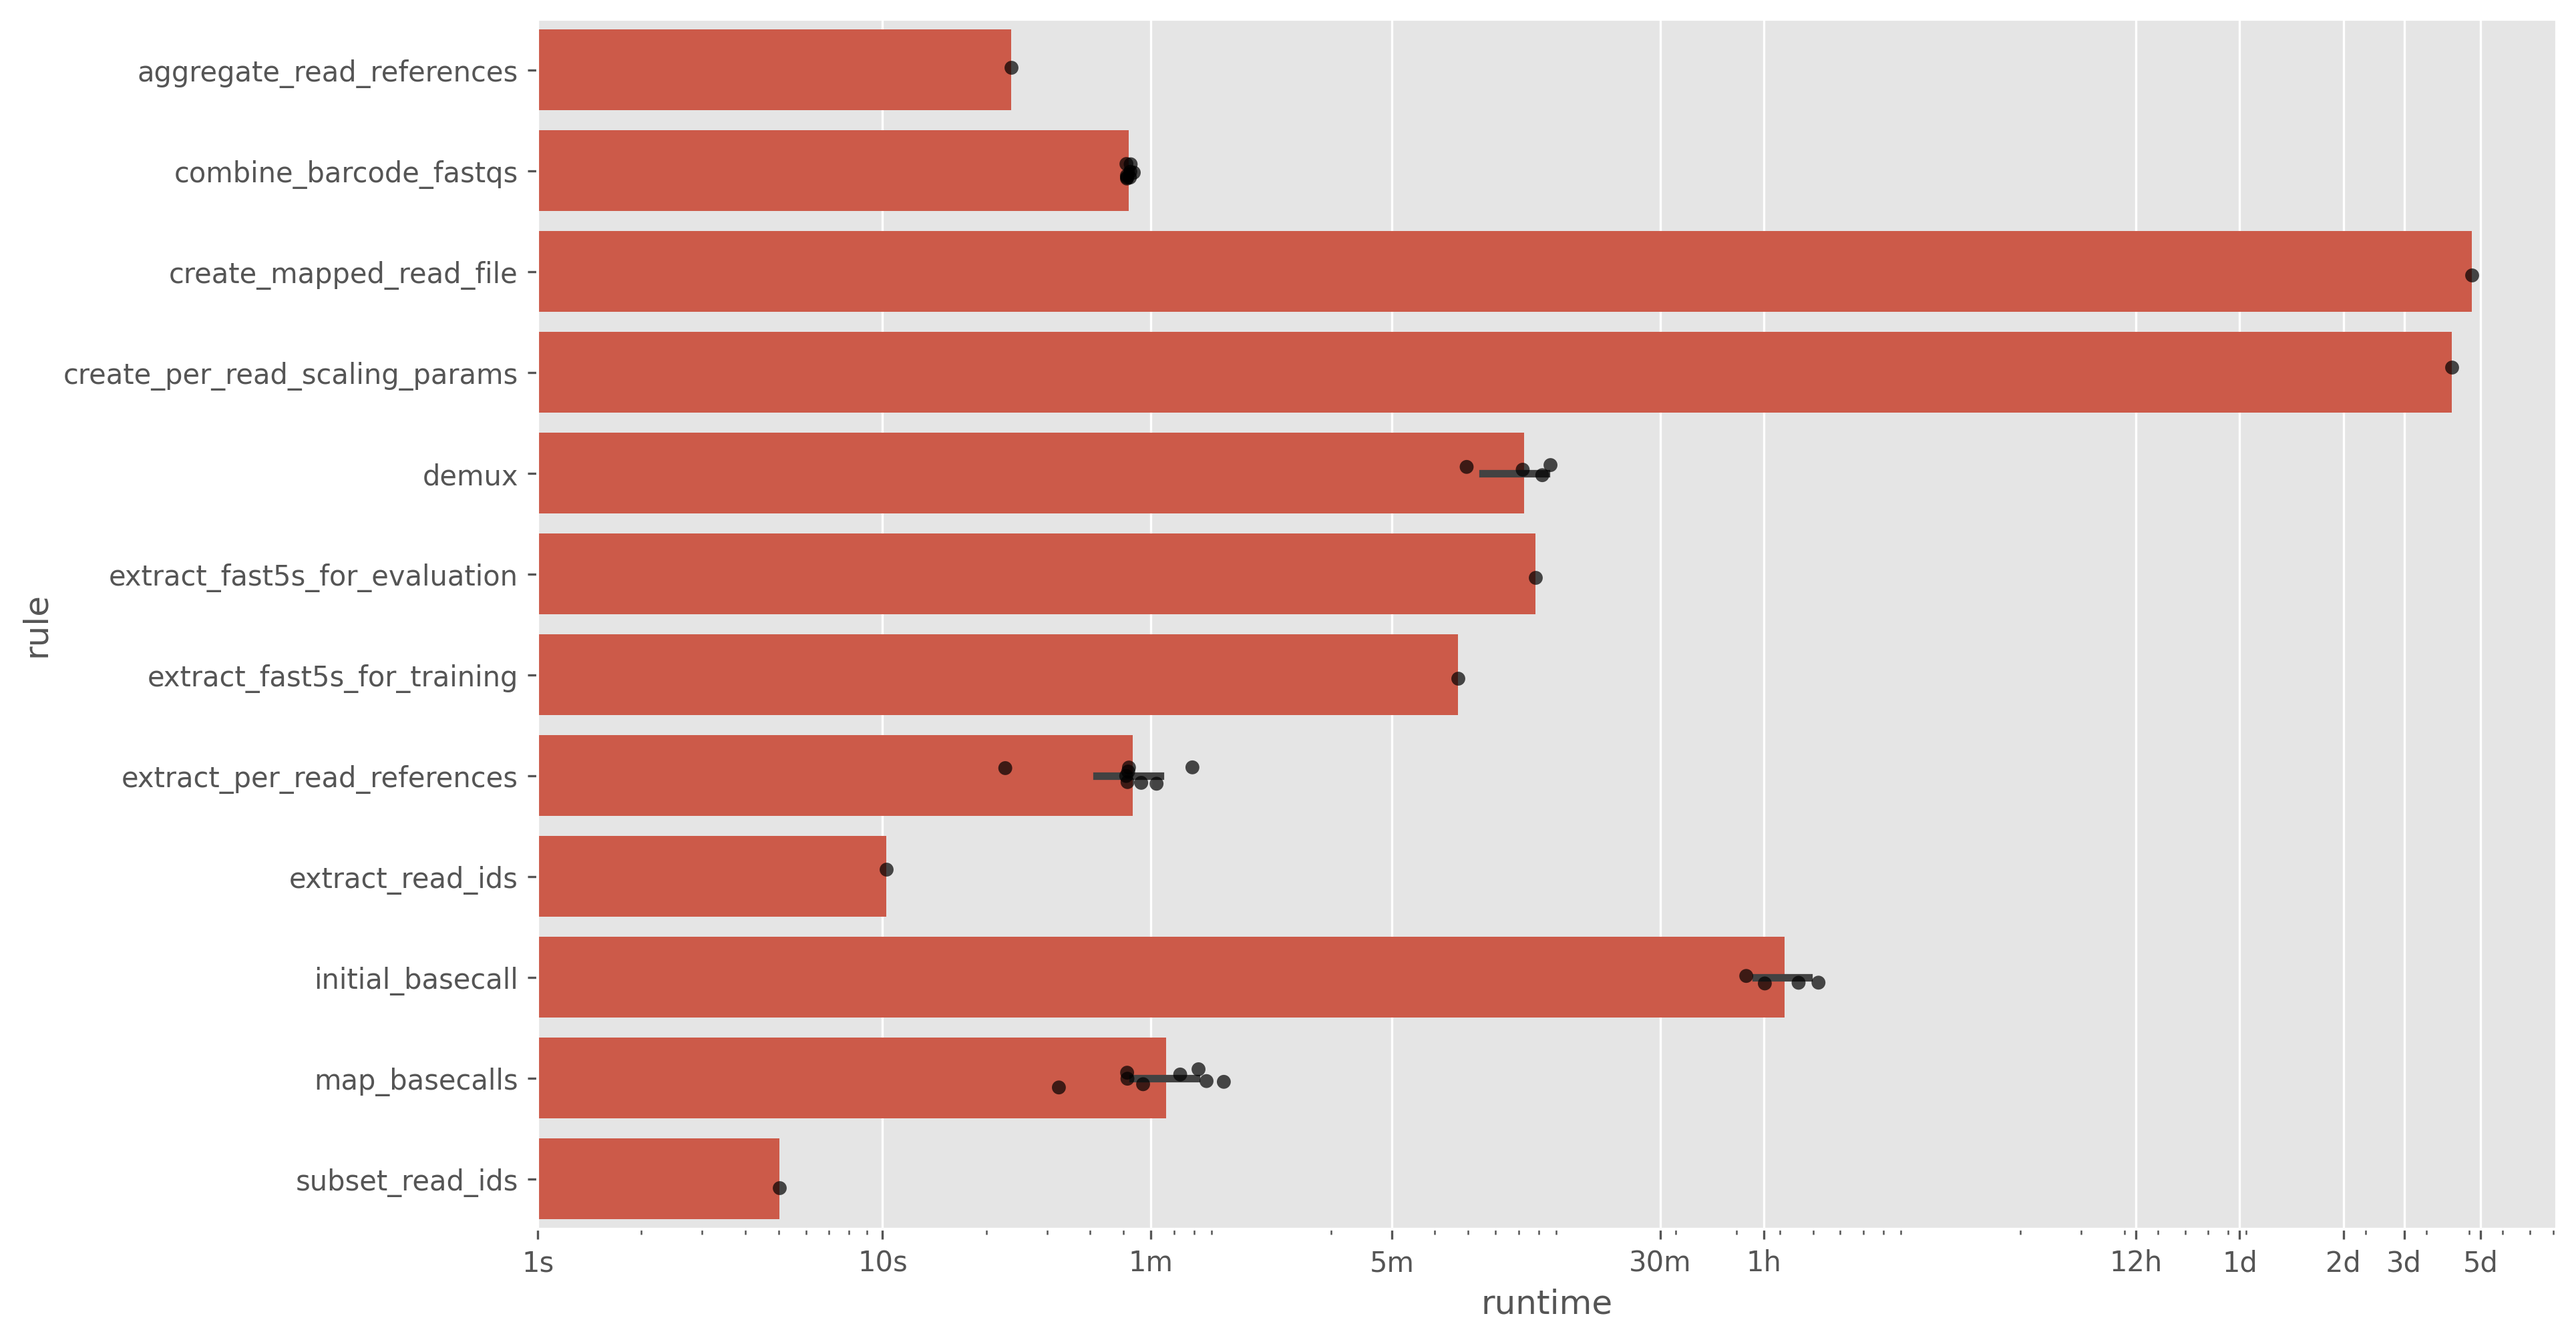
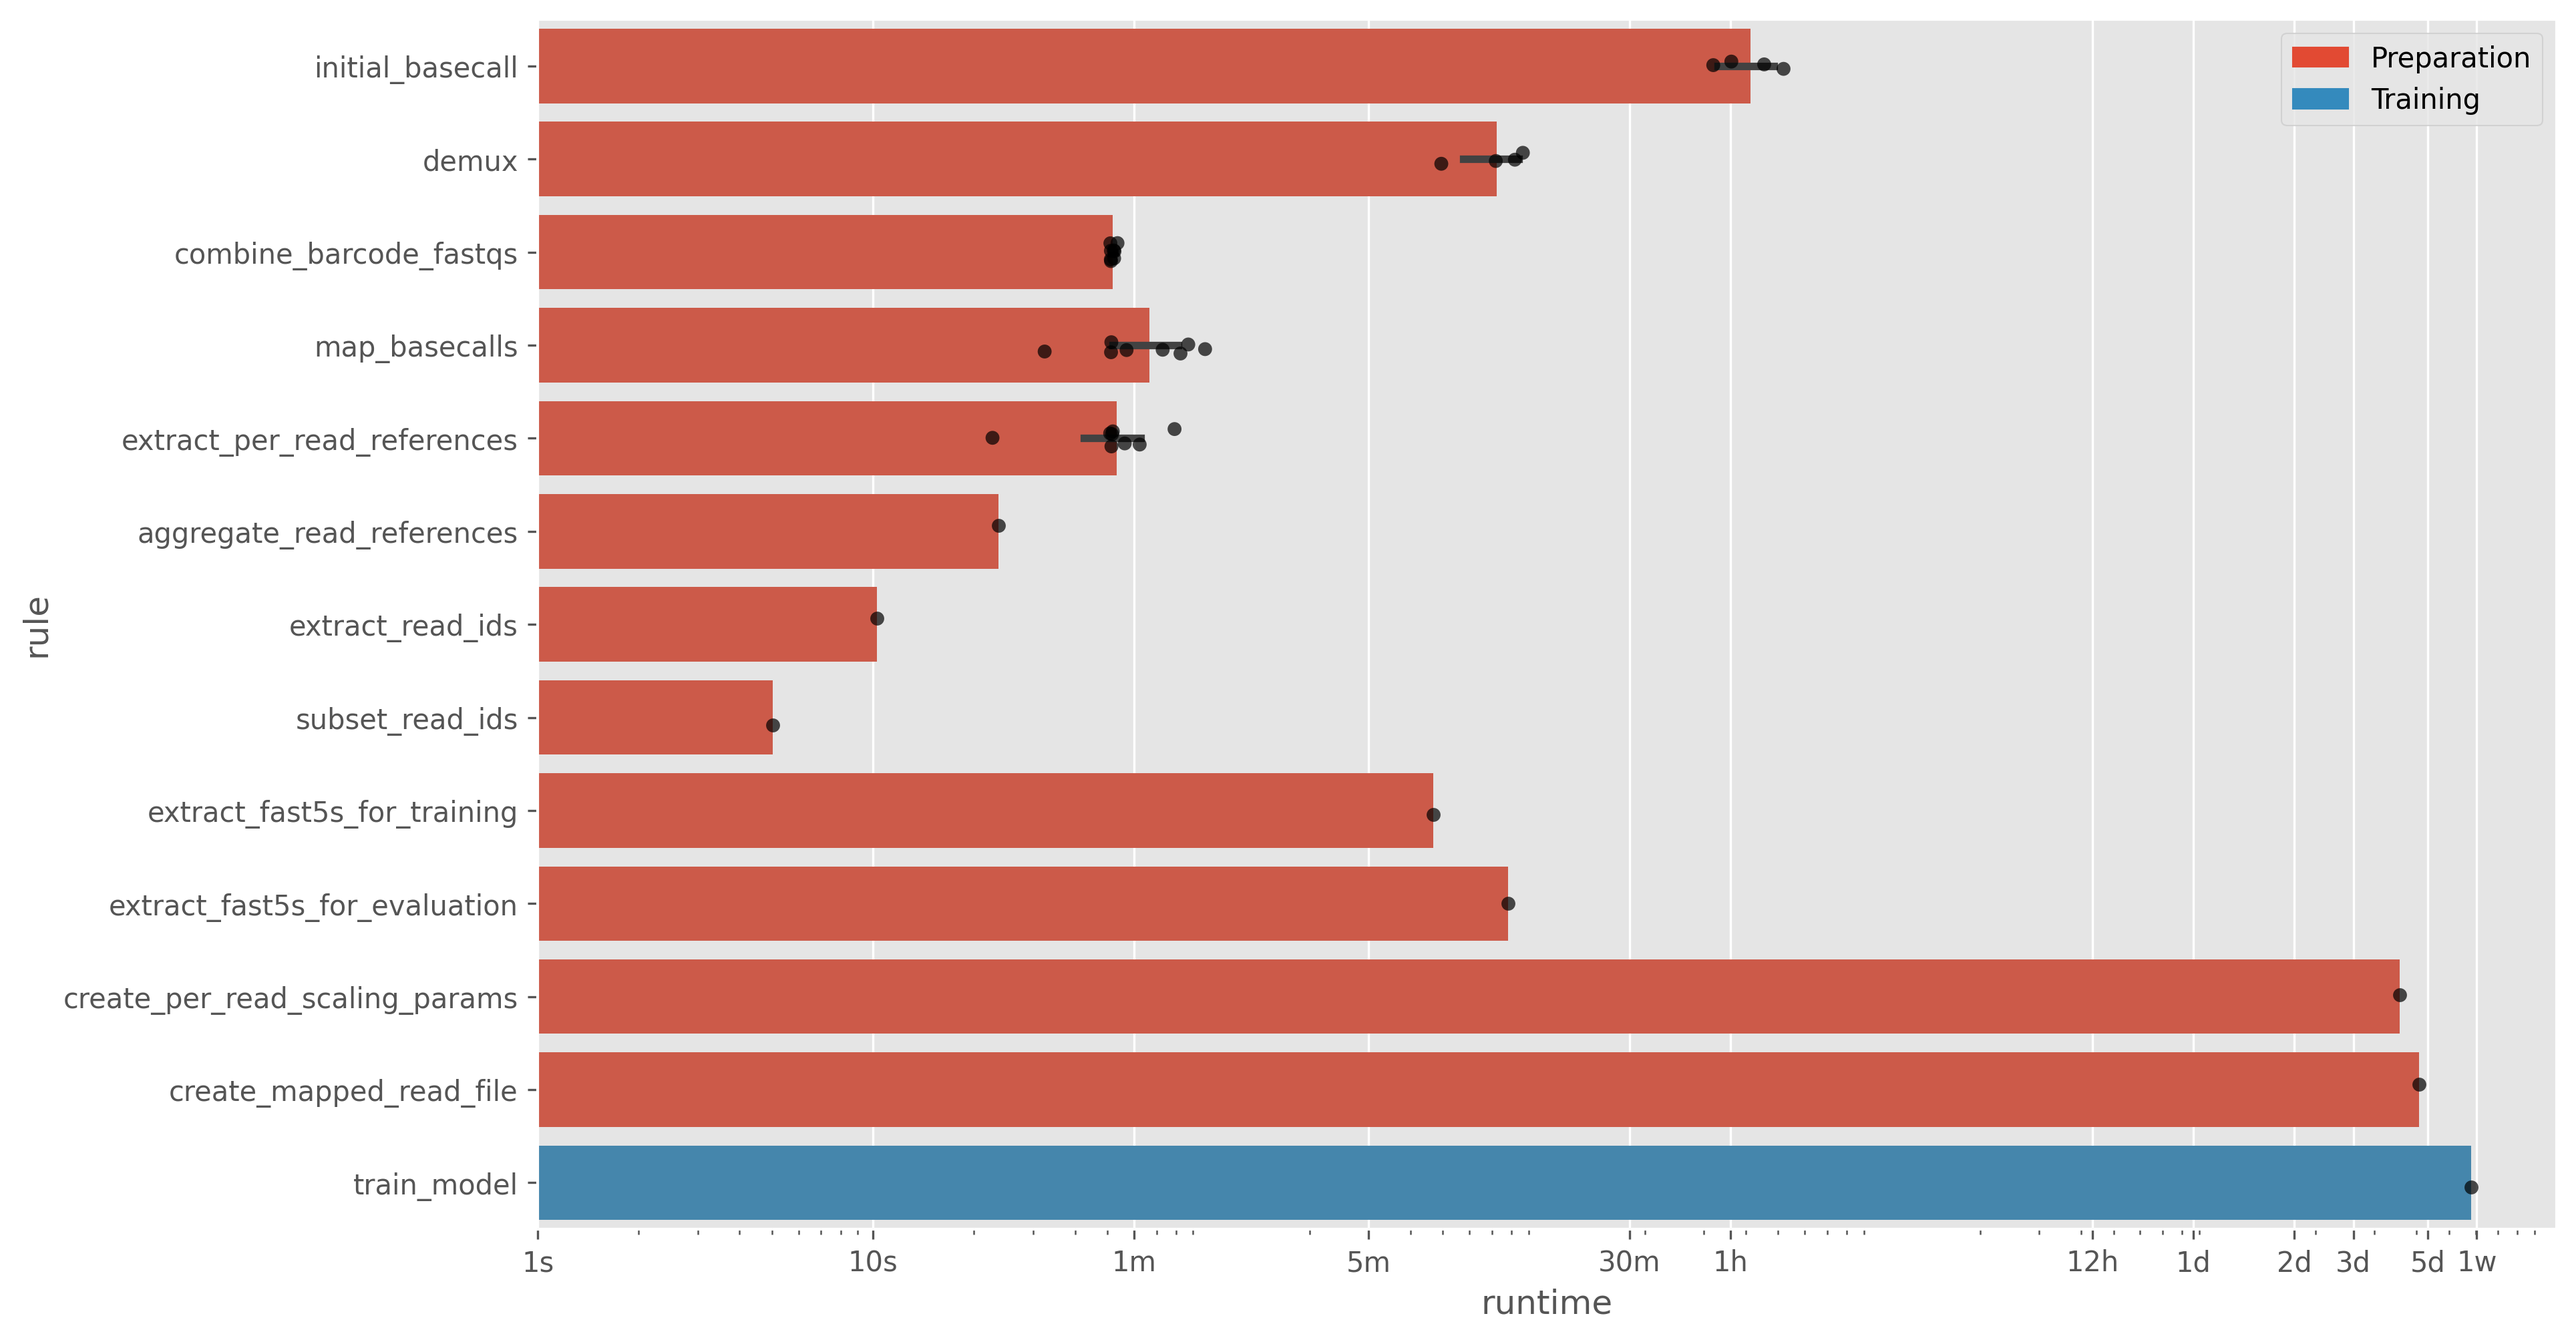
Editing acknowledgements [#4]

diff --git a/Chapter4/chapter4.tex b/Chapter4/chapter4.tex
@@ -10,19 +10,19 @@
 \section{Publication and collaboration acknowledgements}
 \label{sec:ch4-acknowledge}
 
-In addition to the acknowledgements in \autoref{sec:ch2-acknowledge} the work not completed by myself in this chapter was the sequencing of the BCG sample.
+In addition to the acknowledgements in \autoref{sec:ch2-acknowledge}, the work not completed by myself in this chapter was the sequencing of the BCG sample.
 
 The \ont{} sequencing of the BCG sample was performed by Sophie George at the Nuffield Department of Clinical Medicine, John Radcliffe Hospital, Oxford University.
 
-While I did all bioinformatic work in this chapter, I must acknowledge that much of it was motivated by the excellent \ont{} basecalling research performed by Ryan Wick \etal{} \cite{wick2019,wick2020} and some of the scripts from these studies were used in this chapter.
+While I did all bioinformatic work in this chapter, I must acknowledge that much of it was motivated by the excellent \ont{} basecalling research performed by Ryan Wick \etal{} \cite{wick2019,wick2020}. Also, some of the scripts from their studies were used in this chapter.
 
 %%%%%%%%%%%%%%%%%%%%%%%%%%%%%%%%%%%%%%%%%%%%%%%%%%%%%%%%%%%%%%%%%%%%%%%%%%%%%%%%%
 \section{Introduction}
-The accuracy of \ont{} sequencing data has been steadily increasing since its inception. From a read accuracy 65\% in June 2014 \cite{Loman2015}, to 89.17\% in December 2018 \cite{wick2019} - an extraordinary 24\% increase in the space of 4.5 years. Taxon-specific \ont{} basecalling models have been shown to provide even further increased accuracy \cite{wick2019}.
+The accuracy of \ont{} sequencing data has been steadily increasing since its inception. From a read accuracy 65\% in June 2014 \cite{Loman2015}, to 89.17\% in December 2018 \cite{wick2019} - an extraordinary 24\% increase in the space of 4.5 years. 
 
 While there have been many successful attempts by the research community to develop new methods for basecalling \ont{} data \cite{chiron2018,Stoiber2017,Boza2020}, most are not able to keep pace with the speed of new \ont{} developments. As such, \guppy{}, the basecalling software provided by Oxford Nanopore Technologies (ONT), is the most commonly used method.
 
-Previous work by Wick \etal{} trained a taxon-specific basecalling model for \textit{Klebsiella pneumoniae} \cite{wick2019}. Their custom model improves the accuracy of \ont{} for that species, and importantly, significantly reduced systematic errors around homopolymer deletions and methylation sites. However, it remains to be seen if this approach generalises to other species.
+Taxon-specific \ont{} basecalling models have been shown to provide even further increased accuracy. Wick \etal{} trained a \textit{Klebsiella pneumoniae}-specific basecalling model \cite{wick2019}, showing their custom model improves the accuracy of \ont{} for that species, and importantly, significantly reduced systematic errors around homopolymer deletions and methylation sites. However, it remains to be seen if this approach generalises to other species.
 
 In both \autoref{chap:clustering} and \autoref{chap:dst} of this thesis, we use \ont{} data from \mtb{}, and been somewhat hampered by systematic issues (see \autoref{sec:indel-dst-fw}). Therefore, in this chapter, we set out to train an \mtb{}-specific \ont{} basecalling model using the unique dataset we collected in \autoref{sec:ch2-dataset}. The eight samples with sequencing data from Illumina, PacBio, and \ont{} provide the perfect training input for such a model as they have high-quality assemblies (\autoref{app:asm}) free from \ont{} biases, but with available \ont{} reads.
 
@@ -64,7 +64,7 @@ Next, we use \taiyaki{} to trim 200 and 100 raw signal events from the start and
 \begin{figure}
 \includegraphics[width=0.9\textwidth]{Chapter4/Figs/prep_runtime.png}
 \centering
-\caption{Runtimes (x-axis) of the different stages (rules; y-axis) of preparing data for basecall model training. Each individual run is represented with a black point and rules that have multiple runs have black 95\% confidence interval bars. s=seconds; m=minutes; h=hours; d=days.}
+\caption{Runtimes (x-axis) of the different stages (rules; y-axis) of preparing data for basecall model training (red) and training the model itself (blue). Each individual run is represented with a black point and rules that have multiple runs have black 95\% confidence interval bars. s=seconds; m=minutes; h=hours; d=days; w=weeks.}
 \label{fig:prep_runtime}
 \end{figure}
 

diff --git a/Chapter0/chapter0.tex b/Chapter0/chapter0.tex
@@ -4,9 +4,16 @@
 %*******************************************************************************
 \chapter{Background}
 
+
+% outline pandora methods from rachel's thesis
+
 % minimizer kmers
 
 \section{Using genome graph for drug resistance prediction}
 \label{sec:genome-graphs-dst}
 
 \drprg{} is not the first tool to use the concept of genome graphs for AMR prediction. mykrobe, the other tool used in this chapter, uses population genome graphs for genotyping of samples. The underlying method mykrobe uses is Cortex \cite{iqbal2012} - a program that uses coloured de Bruijn graphs (dBGs) for genotyping samples via \denovo{} assembly. Cortex is somewhat of a precursor to \pandora{} - the genome graph method underpinning \drprg{}. However, \pandora{} offers a number of advantages over Cortex (see \autoref{sec:genome-graphs-dst} for a full description of these). The first being the representation of the genome graph itself. As mentioned, Cortex uses \kmer{}s in coloured dBGs, while \pandora{} uses minimizing \kmer{}s in a \emph{directed} graph. In the context of \ont{} data, this distinction is important. As we saw in \autoref{chap:denovo}, build dBGs from \ont{} creates very complex graphs. In addition, as the \ont{} error rate is higher than Illumina, a smaller \kmer{} size is required, another factor that increases the complexity of the dBG. Another important difference in the graph representations of Cortex (mykrobe) and \pandora{} (\drprg{}) is the way in which \kmer{} "hits" are encorporated. In a dBG, anywhere that a \kmer{} matches, the depth is incremented by one. However, in \pandora{} such hits are dependent on the context of the read. If a \kmer{} matches two locations in the graph, but one location has many hits close by from the same read while the other does not, the spurious hit is discarded. This filtering of \kmer{} hits allows us to use a lower \kmer{} size ($k=15$) in \pandora{}, and thus \drprg{}, than is used by Cortex/mykrobe ($k=21$). Another flow-on effect of using a smaller \kmer{} size is we do not require as much read depth in \drprg{} as there is a much higher chance of matches to smaller \kmer{}s, especially when the error rate is high. For example, assuming a \ont{} error rate of 0.08, we would expect the probability of a $15-mer$ and $21-mer$ having no errors to be 0.30 and 0.19 respectively. A more in-depth discussion of the differences between these graph methods can be found in (LINK\todo{link to intro section discussing cortex/pandora differences}).
+
+%  nanopore sequencing
+% how does it work
+% history of basecallers
